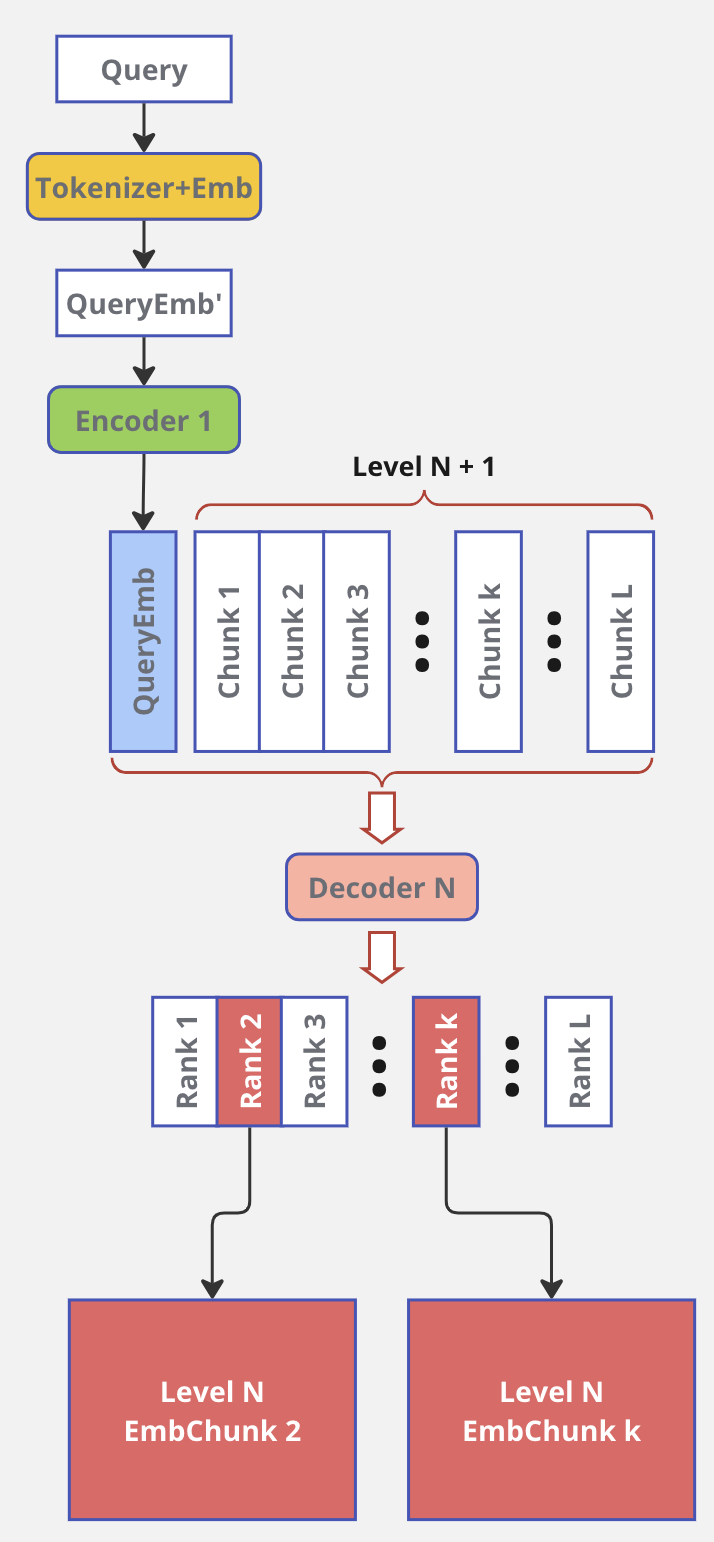
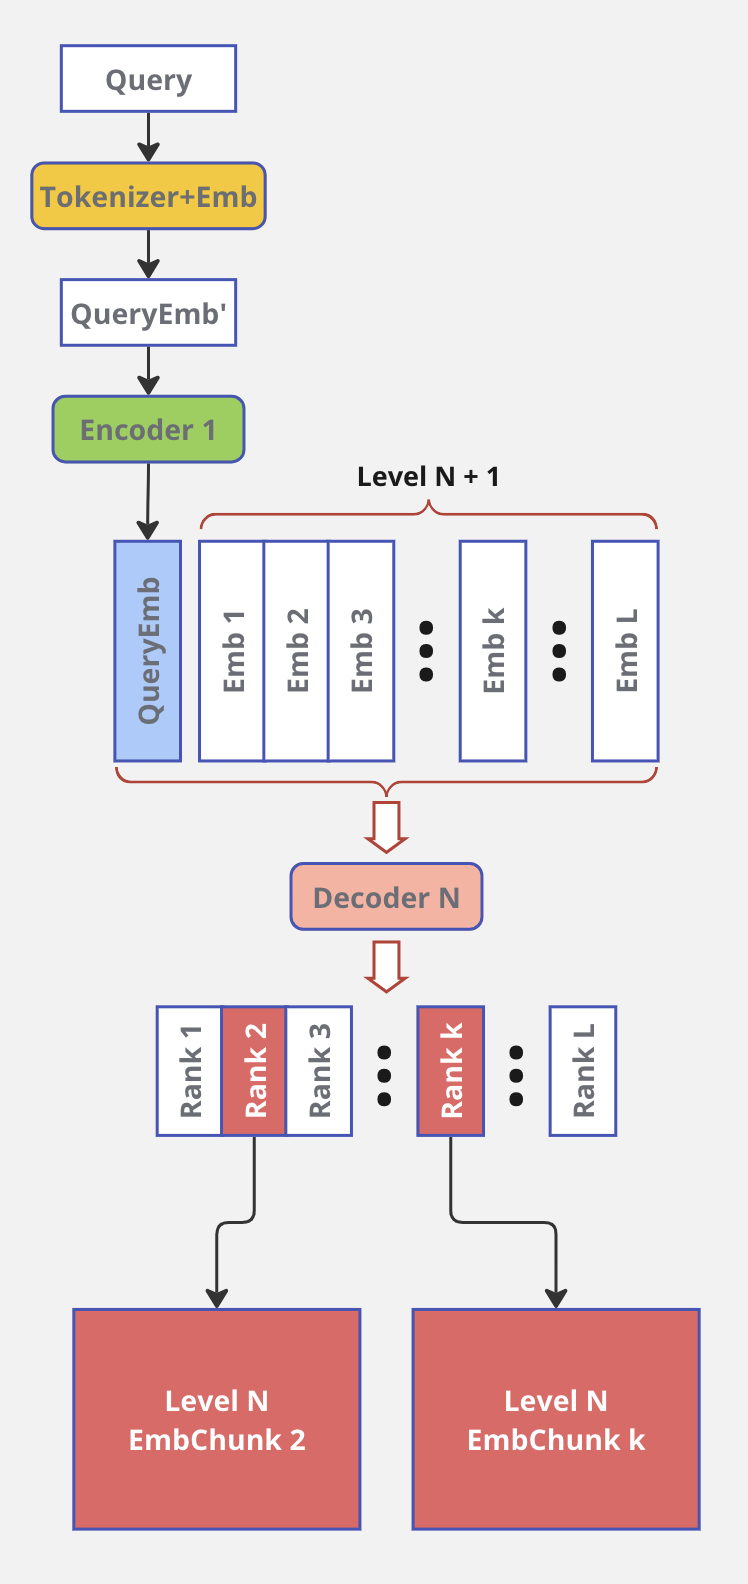
Encoder/Decoder docs added.

Changed region(s): [[0.0308, 0.0, 0.9244, 0.7782], [0.0924, 0.7782, 0.986, 0.9961]]

diff --git a/Readme.md b/Readme.md
@@ -1,14 +1,46 @@
-## MLLM - LLM with Memory
-### GPT
+# MLLM - LLM with Memory
+<!-- ## GPT
 https://huggingface.co/docs/transformers/en/model_doc/openai-gpt
 ```
 pip install spacy ftfy==4.4.3
 python -m spacy download en
-```
-### Approach
-![img01](imgs/img01.png)
-![img02](imgs/img02.png)
-![img03](imgs/img03.png)
-![img04](imgs/img04.png)
-![img05](imgs/img05.png)
+``` -->
+## Approach
+### Goal
+Reduce LLM parametric memory at the expence of keeping data in nonparametric memory storage.
 
+### Encoder
+Encoder 1 properties:
+1. Encoder takes limited chunk size (# of tokens) and produces embedding in `CLS` token. For example, for BERTA-like models this embedding has the size of 768 float32 numbers.
+2. Lightweight architecture.
+3. Chunks-to-document backtracking.
+<br>
+<img width=500 src="imgs/img01.png"/>
+
+Encoders hierarchy:
+1. `log(N)` encoders, where `N` - size of tokenized index.
+2. Encoders standing upper in hierarchy can have more layers as their input decreases exponentially.
+3. Encoder output embeding embeds information of `L` embeddings from previous level.
+<br>
+<img width=500 src="imgs/img02.png"/>
+
+### Decoder
+Query processing:
+1. Query tokenization and embedding are done with `Encoder 1` using the same process as for docuement index processing. When Query contains more than `L` embedding it can be represented as embedding chunk.
+2. Decoder outputs rank values for input embeddings. For top rank values embedding chunks of Level N+1 retrieved.
+<img width=500 src="imgs/img03.png"/>
+
+### Ranking
+<img width=500 src="imgs/img04.png"/>
+
+### LLM
+<img width=500 src="imgs/img05.png"/>
+
+### Training
+Challenging
+
+### Expected advantages
+1. Real-time LLM + Real-time Memory retrieval with the quality of big LLM.
+2. Memory mechanism allows to attend all tokens in a database with log(N) time complexity, where N - size of document database.
+3. The memory is easily expandable.
+4. Any part of the memory can be removed completely or masked out temporary.
